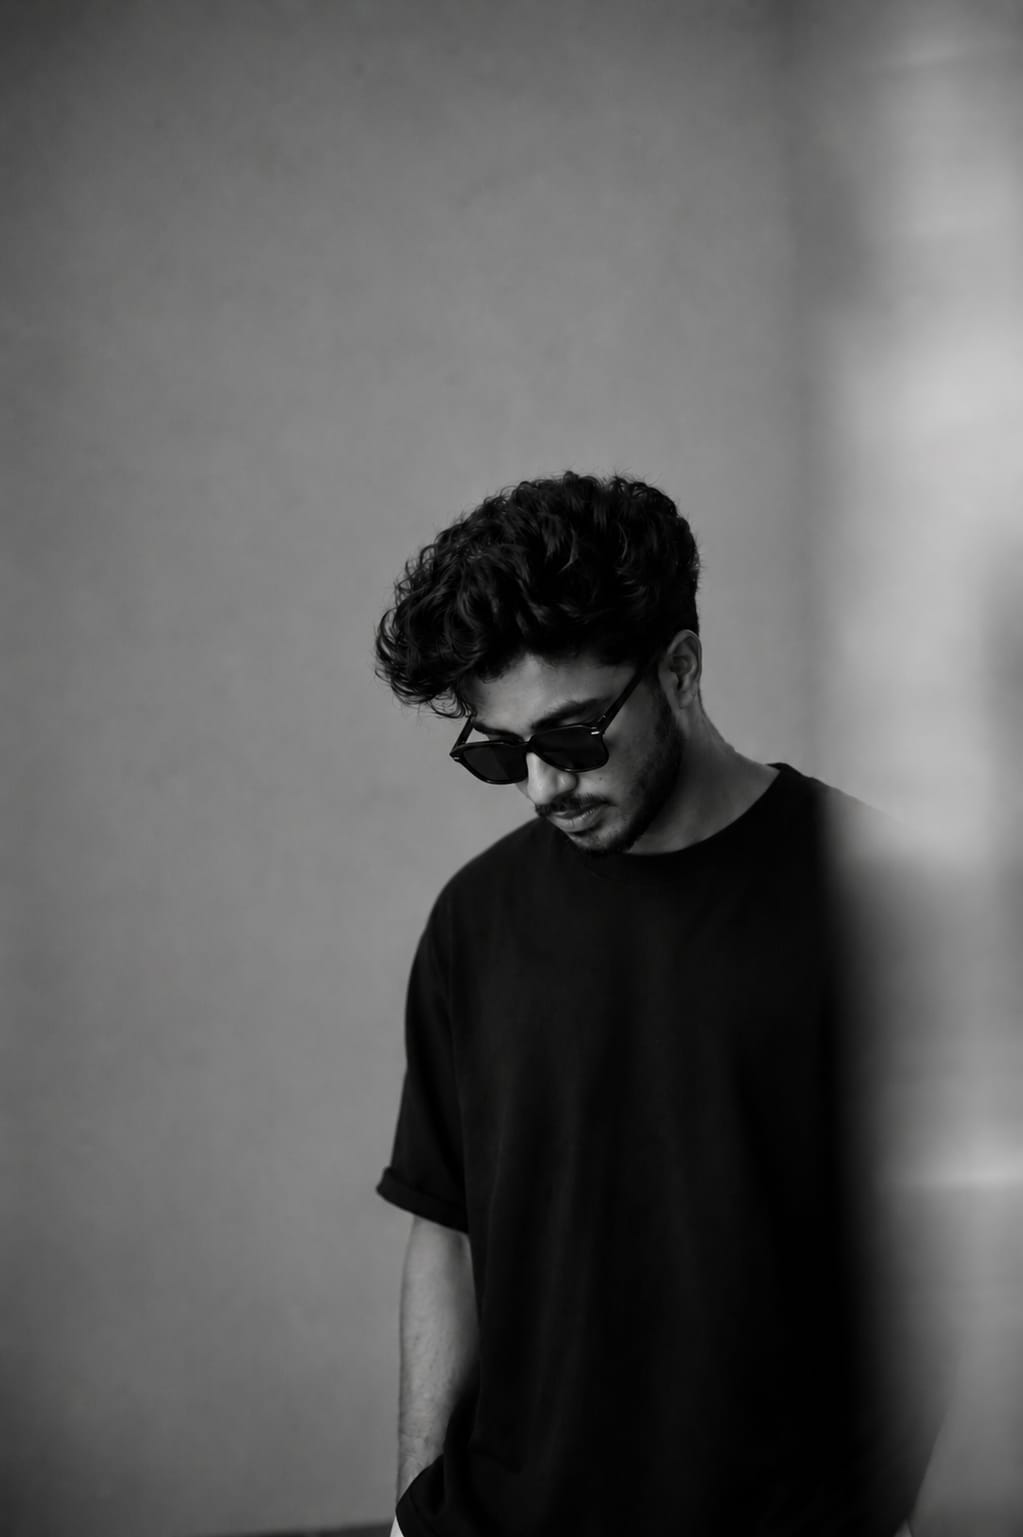
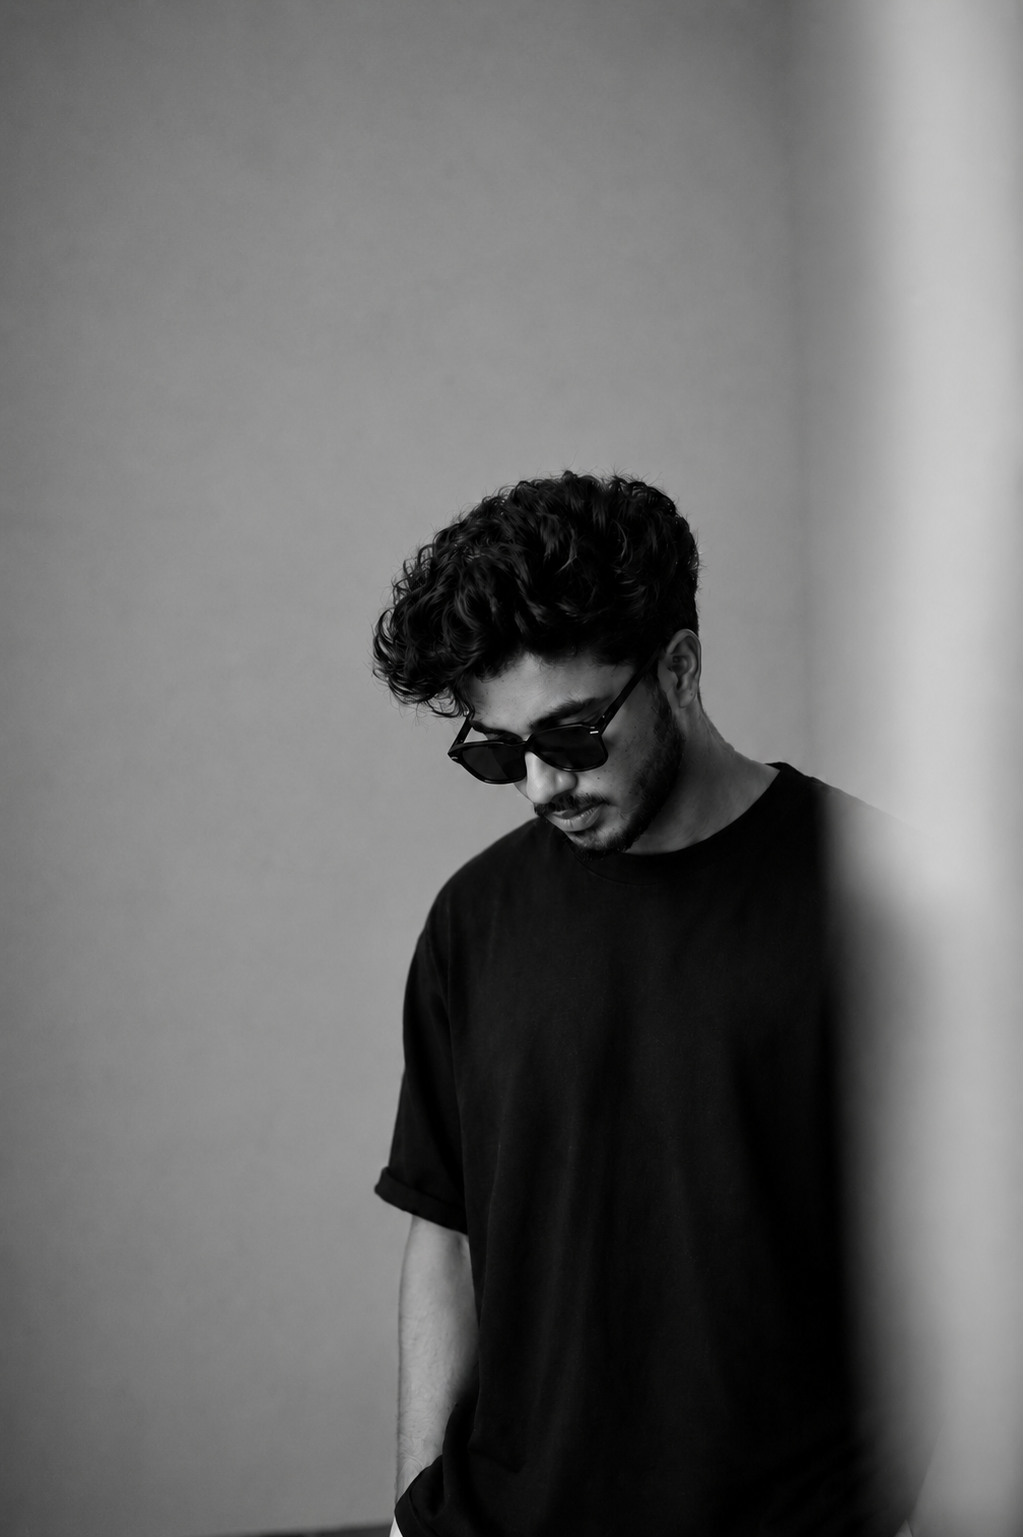
updated

diff --git a/src/components/HeroSection.js b/src/components/HeroSection.js
@@ -15,37 +15,36 @@ export default function HeroSection() {
   return (
     <section className="relative h-screen overflow-hidden bg-[#d9d9d7]">
 
-      {/* Background Image */}
-      <div className="absolute inset-0 overflow-hidden">
-        <div
-          className="absolute inset-0"
-          style={{
-            left: "0%",
-            right: "-30%",
-          }}
-        >
-          <Image
-            src="/hero.jpg"
-            alt="Abhishek VS"
-            fill
-            
-             className="
-             
+  {/* Hero Image */}
+<div className="absolute -top-155 -right-25 bottom-0 w-full md:w-[100%]">
+  <Image
+  src="/hero.jpg"
+  alt="Abhishek VS"
+  fill
+  priority
+  quality={100}
+  className="
     object-cover
-    object-[10%_-0%]
-    md:object-[60%_41%]
+    grayscale
+    object-[65%_210px]
+    md:object-[65%_top]
   "
-          />
-        </div>
-
-        
+/>
+  {/* Left Fade */}
+<div
+    className="absolute inset-y-0 left-0 w-24 md:w-40 pointer-events-none"
+    style={{
+      background:
+        "linear-gradient(to right, #d9d9d7 0%, rgba(217,217,215,0) 100%)",
+    }}
+  />
 
         {/* Right Fade */}
         <div
-          className="absolute inset-y-0 right-0 w-20 md:w-32"
+          className="absolute inset-y-0 right-0 w-40 md:w-32"
           style={{
             background:
-              "linear-gradient(to left, #d9d9d7 0%, rgba(217,217,215,0) 90%)",
+              "linear-gradient(to left, #d9d9d7 0%, rgba(217,217,215,0) 5 0%)",
           }}
         />
       </div>
@@ -56,7 +55,7 @@ export default function HeroSection() {
           <a
             key={i}
             href={item.href}
-            className="w-8 h-8 md:w-10 md:h-10 rounded-full border border-black flex items-center justify-center text-black hover:bg-black hover:text-white transition-all duration-300"
+            className="w-8 h-8 md:w-10 md:h-10 rounded-full border border-gray-700 flex items-center justify-center text-gray-300 hover:bg-black hover:text-white transition-all duration-300"
           >
             {item.icon}
           </a>
@@ -65,7 +64,7 @@ export default function HeroSection() {
 
       {/* Content */}
       <div className="relative z-10 h-full flex items-center">
-        <div className="px-5 md:px-10 w-full md:max-w-[620px] -mt-30 md:mt-0">
+        <div className="px-5 md:px-10 w-full md:max-w-[620px] mt-5 md:mt-0">
 
           <p className="uppercase tracking-[0.18em] text-[18px] md:text-[32px] font-semibold mb-2 md:mb-2">
             <span className="text-black">HI</span>{" "}
@@ -95,7 +94,7 @@ export default function HeroSection() {
 
       {/* Marquee */}
       <div className="absolute bottom-0 left-0 w-full z-20 overflow-hidden">
-        <div className="py-3 md:py-4 whitespace-nowrap animate-marquee text-gray-400 text-[11px] md:text-[13px] tracking-wide">
+        <div className="py-3 md:py-4 whitespace-nowrap animate-marquee text-white text-[11px] md:text-[13px] tracking-wide">
           EVERY GREAT ACHIEVEMENT STARTS WITH A DREAM AND THE DETERMINATION TO CHASE IT RELENTLESSLY. • I CREATE, INSPIRE, AND EVOLVE THROUGH EVERY CHALLENGE AND EVERY OPPORTUNITY. • EVERY GREAT ACHIEVEMENT STARTS WITH A DREAM AND THE DETERMINATION TO CHASE IT RELENTLESSLY. • I CREATE, INSPIRE, AND EVOLVE THROUGH EVERY CHALLENGE AND EVERY OPPORTUNITY. •
         </div>
       </div>
